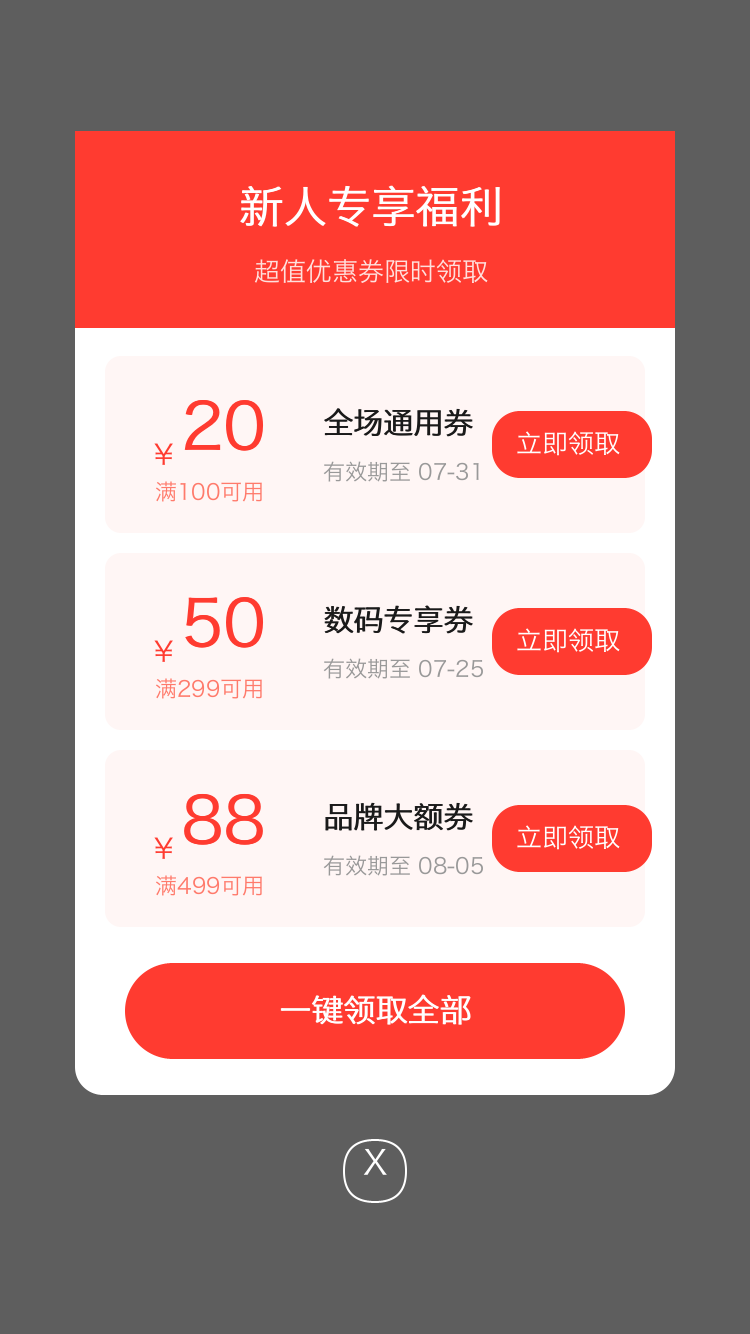
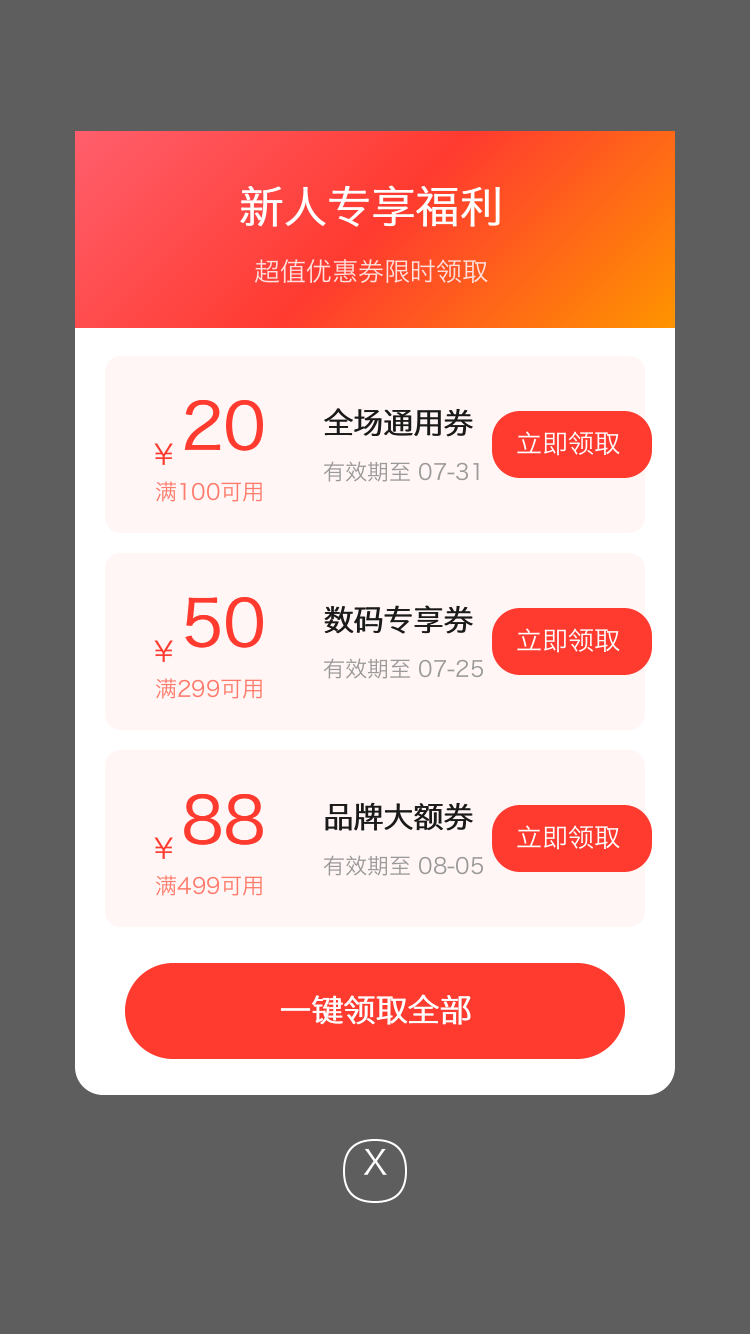
优化代码

Changed region(s): [[0.5213, 0.0922, 0.92, 0.2459], [0.092, 0.0922, 0.3987, 0.2459]]

diff --git a/src/renderer/components/base.rs b/src/renderer/components/base.rs
@@ -23,6 +23,8 @@ pub struct RenderNode {
 #[derive(Clone, Default)]
 pub struct NodeStyle {
     pub background_color: Option<Color>,
+    /// 线性渐变背景（优先于 background_color 绘制）
+    pub background_gradient: Option<LinearGradientBg>,
     pub text_color: Option<Color>,
     pub border_color: Option<Color>,
     pub border_width: f32,
@@ -155,6 +157,15 @@ pub enum WordBreak {
     BreakWord,
 }
 
+/// 线性渐变背景
+#[derive(Clone)]
+pub struct LinearGradientBg {
+    /// CSS 角度：0deg=向上(to top)，90deg=向右，180deg=向下，顺时针
+    pub angle_deg: f32,
+    /// 颜色停靠点 (位置 0~1, 颜色)，按位置升序
+    pub stops: Vec<(f32, Color)>,
+}
+
 /// 盒子阴影
 #[derive(Clone, Copy, Default)]
 pub struct BoxShadow {
@@ -239,7 +250,8 @@ pub trait Component {
 // parse_border_shorthand / parse_length_simple）已拆分到 style_parse 模块，
 // 这里重新导出以保持 `use super::base::*` 的调用点不变。
 pub use super::style_parse::{
-    parse_color_str, parse_box_shadow, parse_transform, parse_border_shorthand, parse_border_side, parse_length_simple,
+    parse_color_str, parse_box_shadow, parse_transform, parse_border_shorthand, parse_border_side,
+    parse_length_simple, parse_linear_gradient,
 };
 
 /// 提取事件绑定
@@ -563,14 +575,20 @@ fn apply_style_property(
             }
             "row-gap" => if let Some(v) = to_px(value, ctx.screen_width, ctx.screen_height) { ts.gap.height = length(v * sf); }
             "column-gap" => if let Some(v) = to_px(value, ctx.screen_width, ctx.screen_height) { ts.gap.width = length(v * sf); }
-            "background-color" | "background" => {
-                if let StyleValue::Color(c) = value { 
-                    ns.background_color = Some(*c); 
-                } else if let StyleValue::String(s) = value {
-                    // 尝试从字符串解析颜色
-                    if let Some(c) = parse_color_str(s) {
-                        ns.background_color = Some(c);
+            "background-color" | "background" | "background-image" => {
+                match value {
+                    StyleValue::Color(c) => ns.background_color = Some(*c),
+                    StyleValue::String(s) if s.contains("linear-gradient(") => {
+                        if let Some(g) = parse_linear_gradient(s) {
+                            // 兜底纯色（渐变未绘制处使用）取首个停靠点
+                            ns.background_color = g.stops.first().map(|(_, c)| *c);
+                            ns.background_gradient = Some(g);
+                        }
                     }
+                    StyleValue::String(s) => {
+                        if let Some(c) = parse_color_str(s) { ns.background_color = Some(c); }
+                    }
+                    _ => {}
                 }
             }
             "color" => {
@@ -817,6 +835,79 @@ fn apply_style_property(
     }
 }
 
+/// 绘制线性渐变背景（逐像素投影到渐变轴取色，圆角边缘抗锯齿）。
+pub fn draw_linear_gradient(
+    canvas: &mut Canvas,
+    grad: &LinearGradientBg,
+    x: f32, y: f32, w: f32, h: f32,
+    radii: [f32; 4],
+    opacity: f32,
+) {
+    if w <= 0.0 || h <= 0.0 || grad.stops.is_empty() { return; }
+    let stops = &grad.stops;
+    // 渐变方向单位向量：0deg 向上=(0,-1)，顺时针
+    let a = grad.angle_deg.to_radians();
+    let (dx, dy) = (a.sin(), -a.cos());
+    let (cx, cy) = (x + w / 2.0, y + h / 2.0);
+    let full = (w * dx).abs() + (h * dy).abs(); // 渐变线总长
+    let [tl, tr, br, bl] = radii;
+
+    let color_at = |t: f32| -> Color {
+        let t = t.clamp(0.0, 1.0);
+        if t <= stops[0].0 { return stops[0].1; }
+        if t >= stops[stops.len() - 1].0 { return stops[stops.len() - 1].1; }
+        for i in 0..stops.len() - 1 {
+            let (t0, c0) = stops[i];
+            let (t1, c1) = stops[i + 1];
+            if t >= t0 && t <= t1 {
+                let r = if (t1 - t0).abs() < 1e-6 { 0.0 } else { (t - t0) / (t1 - t0) };
+                return Color::new(
+                    (c0.r as f32 + (c1.r as f32 - c0.r as f32) * r) as u8,
+                    (c0.g as f32 + (c1.g as f32 - c0.g as f32) * r) as u8,
+                    (c0.b as f32 + (c1.b as f32 - c0.b as f32) * r) as u8,
+                    (c0.a as f32 + (c1.a as f32 - c0.a as f32) * r) as u8,
+                );
+            }
+        }
+        stops[stops.len() - 1].1
+    };
+
+    // 圆角覆盖率（与图片圆角一致）
+    let corner_cover = |px: f32, py: f32| -> f32 {
+        let lx = px - x;
+        let ly = py - y;
+        let calc = |ccx: f32, ccy: f32, r: f32| -> f32 {
+            if r <= 0.0 { return 1.0; }
+            let d = ((lx - ccx) * (lx - ccx) + (ly - ccy) * (ly - ccy)).sqrt();
+            (r + 0.5 - d).clamp(0.0, 1.0)
+        };
+        if lx < tl && ly < tl { calc(tl, tl, tl) }
+        else if lx > w - tr && ly < tr { calc(w - tr, tr, tr) }
+        else if lx > w - br && ly > h - br { calc(w - br, h - br, br) }
+        else if lx < bl && ly > h - bl { calc(bl, h - bl, bl) }
+        else { 1.0 }
+    };
+
+    let x0 = x.floor() as i32;
+    let y0 = y.floor() as i32;
+    let x1 = (x + w).ceil() as i32;
+    let y1 = (y + h).ceil() as i32;
+    for py in y0..y1 {
+        for px in x0..x1 {
+            let fx = px as f32 + 0.5;
+            let fy = py as f32 + 0.5;
+            let cover = corner_cover(fx, fy);
+            if cover <= 0.0 { continue; }
+            let proj = (fx - cx) * dx + (fy - cy) * dy;
+            let t = if full > 0.0 { proj / full + 0.5 } else { 0.5 };
+            let mut c = color_at(t);
+            let alpha = (c.a as f32 * opacity * cover) as u8;
+            c.a = alpha;
+            canvas.set_pixel(px, py, c);
+        }
+    }
+}
+
 /// 绘制盒子阴影
 pub fn draw_box_shadow(canvas: &mut Canvas, shadow: &BoxShadow, x: f32, y: f32, w: f32, h: f32, border_radius: f32) {
     if shadow.inset {
@@ -877,8 +968,10 @@ pub fn draw_background(canvas: &mut Canvas, style: &NodeStyle, x: f32, y: f32, w
     let radii = get_border_radii(style);
     let has_different_radii = radii[0] != radii[1] || radii[1] != radii[2] || radii[2] != radii[3];
     
-    // 绘制背景
-    if let Some(bg) = style.background_color {
+    // 绘制背景：线性渐变优先，否则纯色
+    if let Some(grad) = &style.background_gradient {
+        draw_linear_gradient(canvas, grad, x, y, w, h, radii, style.opacity);
+    } else if let Some(bg) = style.background_color {
         let mut paint = Paint::new().with_color(bg).with_style(PaintStyle::Fill);
         if style.opacity < 1.0 { 
             paint.color.a = (paint.color.a as f32 * style.opacity) as u8; 

diff --git a/src/bin/devserver.rs b/src/bin/devserver.rs
@@ -234,33 +234,45 @@ const PAGE_HTML: &str = r#"<!doctype html><html lang="zh"><head><meta charset="u
 <style>
   body{margin:0;background:#20232a;color:#eee;font-family:-apple-system,system-ui,sans-serif;display:flex;flex-direction:column;align-items:center;padding:24px}
   h1{font-size:16px;font-weight:600;color:#9ad}
-  .phone{width:375px;box-shadow:0 12px 40px rgba(0,0,0,.5);border-radius:20px;overflow:hidden;background:#000}
-  img{display:block;width:375px;cursor:pointer}
+  .phone{width:375px;height:667px;box-shadow:0 12px 40px rgba(0,0,0,.5);border-radius:20px;overflow:hidden;background:#000}
+  canvas{display:block;width:375px;height:667px;cursor:pointer}
   .bar{margin:14px 0;display:flex;gap:10px;align-items:center;font-size:13px;color:#aaa}
   button{background:#07c160;color:#fff;border:0;padding:8px 16px;border-radius:8px;cursor:pointer;font-size:13px}
   button.back{background:#576b95}
-  .hint{font-size:12px;color:#888;margin-top:8px;max-width:420px;text-align:center}
+  .hint{font-size:12px;color:#888;margin-top:8px;max-width:440px;text-align:center}
 </style></head><body>
-<h1>Mini Render · 浏览器调试预览</h1>
-<div class="phone"><img id="f" src="/frame.png"></div>
+<h1>Mini Render · 浏览器调试预览 <span style="color:#07c160">(canvas 载体)</span></h1>
+<div class="phone"><canvas id="c" width="750" height="1334"></canvas></div>
 <div class="bar">
   <button class="back" onclick="nav('/back')">← 返回</button>
   <button onclick="refresh()">刷新</button>
   <label><input type="checkbox" id="auto" checked> 自动刷新</label>
   <span id="msg"></span>
 </div>
-<div class="hint">点击画面即可操作：命中 bindtap / 表单控件 / 页面跳转(navigateTo/switchTab) / Toast，均会实时重渲染。</div>
+<div class="hint">画面以 &lt;canvas&gt; 承载（原生分辨率、更清晰）。点击即可操作：bindtap / 表单控件 / 页面跳转(navigateTo/switchTab) / Toast，均会实时重渲染。</div>
 <script>
-const img=document.getElementById('f'), msg=document.getElementById('msg');
-function refresh(){ img.src='/frame.png?t='+Date.now(); }
+const cv=document.getElementById('c'), ctx=cv.getContext('2d'), msg=document.getElementById('msg');
+let busy=false;
+async function refresh(){
+  try{
+    const r=await fetch('/frame.png?t='+Date.now());
+    const blob=await r.blob();
+    const bmp=await createImageBitmap(blob);
+    ctx.drawImage(bmp,0,0,cv.width,cv.height);
+    if(bmp.close) bmp.close();
+  }catch(e){}
+}
 async function nav(u){ await fetch(u); refresh(); }
-img.addEventListener('click', async (e)=>{
-  const x=Math.round(e.offsetX), y=Math.round(e.offsetY);
+cv.addEventListener('click', async (e)=>{
+  const rect=cv.getBoundingClientRect();
+  const x=Math.round((e.clientX-rect.left)*(375/rect.width));
+  const y=Math.round((e.clientY-rect.top)*(667/rect.height));
   msg.textContent='tap ('+x+','+y+')';
-  await fetch('/tap?x='+x+'&y='+y);
-  refresh();
+  if(busy) return; busy=true;
+  try{ await fetch('/tap?x='+x+'&y='+y); await refresh(); }finally{ busy=false; }
 });
-setInterval(()=>{ if(document.getElementById('auto').checked) refresh(); }, 600);
+refresh();
+setInterval(()=>{ if(document.getElementById('auto').checked && !busy) refresh(); }, 700);
 </script></body></html>"#;
 
 fn http_response(status: &str, content_type: &str, body: &[u8]) -> Vec<u8> {
@@ -313,9 +325,20 @@ fn main() -> Result<(), String> {
     println!("📂 加载小程序: {}", app_root);
     let mut preview = Preview::new(&app_root)?;
 
-    let addr = format!("127.0.0.1:{}", port);
-    let listener = TcpListener::bind(&addr).map_err(|e| format!("无法监听 {}: {}", addr, e))?;
-    println!("\n🌐 调试预览已启动，请在浏览器打开：\n   http://{}\n", addr);
+    // 端口被占用（例如残留的旧实例）时自动向后尝试，避免新代码无法启动而误连旧服务
+    let mut listener = None;
+    let mut bound_port = port;
+    for p in port..port.saturating_add(20) {
+        match TcpListener::bind(("127.0.0.1", p)) {
+            Ok(l) => { listener = Some(l); bound_port = p; break; }
+            Err(_) => println!("⚠  端口 {} 被占用（可能是残留的旧实例），尝试 {} ...", p, p + 1),
+        }
+    }
+    let listener = listener.ok_or_else(|| format!("{}~{} 端口均被占用", port, port + 19))?;
+    println!("\n🌐 调试预览已启动，请在浏览器打开：\n   http://127.0.0.1:{}\n", bound_port);
+    if bound_port != port {
+        println!("（注意：{} 被占用，已改用 {}。如需释放旧端口：lsof -ti :{} | xargs kill -9）", port, bound_port, port);
+    }
     println!("（点击画面操作 UI，支持页面跳转/表单/Toast；Ctrl+C 退出）");
 
     for stream in listener.incoming() {

diff --git a/src/renderer/components/style_parse.rs b/src/renderer/components/style_parse.rs
@@ -4,8 +4,92 @@
 //! 长度单位等的解析逻辑，便于独立测试、复用与维护。这些函数不触碰 Taffy 布局树，
 //! 只负责把字符串解析为结构化的样式值。
 
-use super::base::{NodeStyle, BoxShadow, Transform};
+use super::base::{NodeStyle, BoxShadow, Transform, LinearGradientBg};
 use crate::Color;
+
+/// 解析 `linear-gradient(<方向|角度>, c1 [pos], c2 [pos], ...)`。
+/// 方向支持 `to top/right/bottom/left` 及对角，或 `Ndeg`；缺省为 `to bottom`(180deg)。
+pub fn parse_linear_gradient(s: &str) -> Option<LinearGradientBg> {
+    let s = s.trim();
+    let inner = s.strip_prefix("linear-gradient(")?.strip_suffix(")")?.trim();
+    // 顶层逗号切分（跳过 rgba(...) 内的逗号）
+    let parts = split_top_commas(inner);
+    if parts.is_empty() { return None; }
+
+    let mut idx = 0;
+    let mut angle = 180.0f32; // 默认向下
+    let first = parts[0].trim();
+    let is_dir = first.starts_with("to ") || first.ends_with("deg")
+        || first.ends_with("turn") || first.ends_with("rad");
+    if is_dir {
+        angle = parse_gradient_angle(first);
+        idx = 1;
+    }
+
+    let mut stops: Vec<(f32, Color)> = Vec::new();
+    let color_tokens: Vec<&str> = parts[idx..].iter().map(|s| s.trim()).collect();
+    let n = color_tokens.len();
+    for (i, tok) in color_tokens.iter().enumerate() {
+        // "color pos%" 或 "color"
+        let mut it = tok.rsplitn(2, char::is_whitespace);
+        let last = it.next().unwrap_or("");
+        let (color_str, pos): (&str, Option<f32>) = if last.ends_with('%') {
+            let head = it.next().unwrap_or("").trim();
+            let p = last.trim_end_matches('%').parse::<f32>().ok().map(|v| v / 100.0);
+            if head.is_empty() { (tok.trim(), None) } else { (head, p) }
+        } else {
+            (tok.trim(), None)
+        };
+        if let Some(c) = parse_color_str(color_str) {
+            let position = pos.unwrap_or_else(|| if n <= 1 { 0.0 } else { i as f32 / (n - 1) as f32 });
+            stops.push((position.clamp(0.0, 1.0), c));
+        }
+    }
+    if stops.is_empty() { return None; }
+    stops.sort_by(|a, b| a.0.partial_cmp(&b.0).unwrap_or(std::cmp::Ordering::Equal));
+    Some(LinearGradientBg { angle_deg: angle, stops })
+}
+
+fn parse_gradient_angle(dir: &str) -> f32 {
+    let d = dir.trim();
+    if let Some(rest) = d.strip_suffix("deg") {
+        return rest.trim().parse::<f32>().unwrap_or(180.0);
+    }
+    if let Some(rest) = d.strip_suffix("turn") {
+        return rest.trim().parse::<f32>().map(|t| t * 360.0).unwrap_or(180.0);
+    }
+    if let Some(rest) = d.strip_suffix("rad") {
+        return rest.trim().parse::<f32>().map(|r| r.to_degrees()).unwrap_or(180.0);
+    }
+    match d {
+        "to top" => 0.0,
+        "to right" => 90.0,
+        "to bottom" => 180.0,
+        "to left" => 270.0,
+        "to top right" | "to right top" => 45.0,
+        "to bottom right" | "to right bottom" => 135.0,
+        "to bottom left" | "to left bottom" => 225.0,
+        "to top left" | "to left top" => 315.0,
+        _ => 180.0,
+    }
+}
+
+/// 顶层逗号切分（保留 rgba(...) / rgb(...) 内部逗号）
+fn split_top_commas(s: &str) -> Vec<String> {
+    let mut out = Vec::new();
+    let mut depth = 0i32;
+    let mut cur = String::new();
+    for ch in s.chars() {
+        match ch {
+            '(' => { depth += 1; cur.push(ch); }
+            ')' => { depth -= 1; cur.push(ch); }
+            ',' if depth == 0 => { out.push(cur.trim().to_string()); cur.clear(); }
+            _ => cur.push(ch),
+        }
+    }
+    if !cur.trim().is_empty() { out.push(cur.trim().to_string()); }
+    out
+}
 
 /// 解析颜色字符串：支持 `#rgb` / `#rrggbb` / `rgb(...)`。
 pub fn parse_color_str(s: &str) -> Option<Color> {

diff --git a/src/tests/component_render_tests.rs b/src/tests/component_render_tests.rs
@@ -51,6 +51,24 @@ fn test_block_text_wraps_to_multiple_lines() {
 }
 
 #[test]
+fn test_linear_gradient_background() {
+    // 垂直渐变（红->蓝）：顶部应偏红、底部应偏蓝
+    let css = ".g{ width:200px; height:200px; background: linear-gradient(to bottom, #ff0000, #0000ff); }";
+    let wxml = r#"<view class="g"></view>"#;
+    let mut r = renderer(css);
+    let mut c = canvas();
+    let mut im = InteractionManager::new();
+    let ns = nodes(wxml);
+    r.render_with_interaction(&mut c, &ns, &json!({}), &mut im);
+    // 采样：顶部行 y=10、底部行 y=380（物理像素，SCALE=2 -> 200px 高=400 物理）
+    let w = c.width();
+    let top = c.get_pixel(w / 4, 10);
+    let bot = c.get_pixel(w / 4, 380);
+    assert!(top.r > top.b, "渐变顶部应偏红: {:?}", (top.r, top.g, top.b));
+    assert!(bot.b > bot.r, "渐变底部应偏蓝: {:?}", (bot.r, bot.g, bot.b));
+}
+
+#[test]
 fn test_last_child_pseudo_selector() {
     use crate::parser::wxss::{WxssParser, ElementDesc};
     use std::collections::HashMap;

diff --git a/examples/gallery_parts/promo.rs b/examples/gallery_parts/promo.rs
@@ -151,7 +151,7 @@ fn coupon_popup() {
     .grow{ flex:1; }
     .bl{ align-items:baseline; }
     .pop{ width:600rpx; background-color:#ffffff; border-radius:28rpx; display:flex; flex-direction:column; align-items:center; padding-bottom:36rpx; overflow:hidden; }
-    .head{ width:600rpx; background-color:#ff3b30; display:flex; flex-direction:column; align-items:center; padding:44rpx 0 36rpx 0; }
+    .head{ width:600rpx; background:linear-gradient(135deg, #ff5f6d, #ff3b30, #ff9500); display:flex; flex-direction:column; align-items:center; padding:44rpx 0 36rpx 0; }
     .htitle{ font-size:44rpx; color:#ffffff; font-weight:bold; }
     .hsub{ font-size:26rpx; color:#ffe0dd; margin-top:12rpx; }
     .body{ display:flex; flex-direction:column; width:540rpx; margin-top:28rpx; }

diff --git a/src/parser/wxss.rs b/src/parser/wxss.rs
@@ -893,8 +893,12 @@ impl WxssParser {
             }
         }
         
-        // 渐变值 - 提取第一个颜色作为 fallback
-        if value.starts_with("linear-gradient") || value.starts_with("radial-gradient") {
+        // 线性渐变：保留完整字符串，交由渲染层解析绘制
+        if value.starts_with("linear-gradient") {
+            return StyleValue::String(value.to_string());
+        }
+        // 径向渐变暂以首色兜底
+        if value.starts_with("radial-gradient") {
             if let Some(color) = Self::parse_gradient_fallback(value) {
                 return StyleValue::Color(color);
             }
